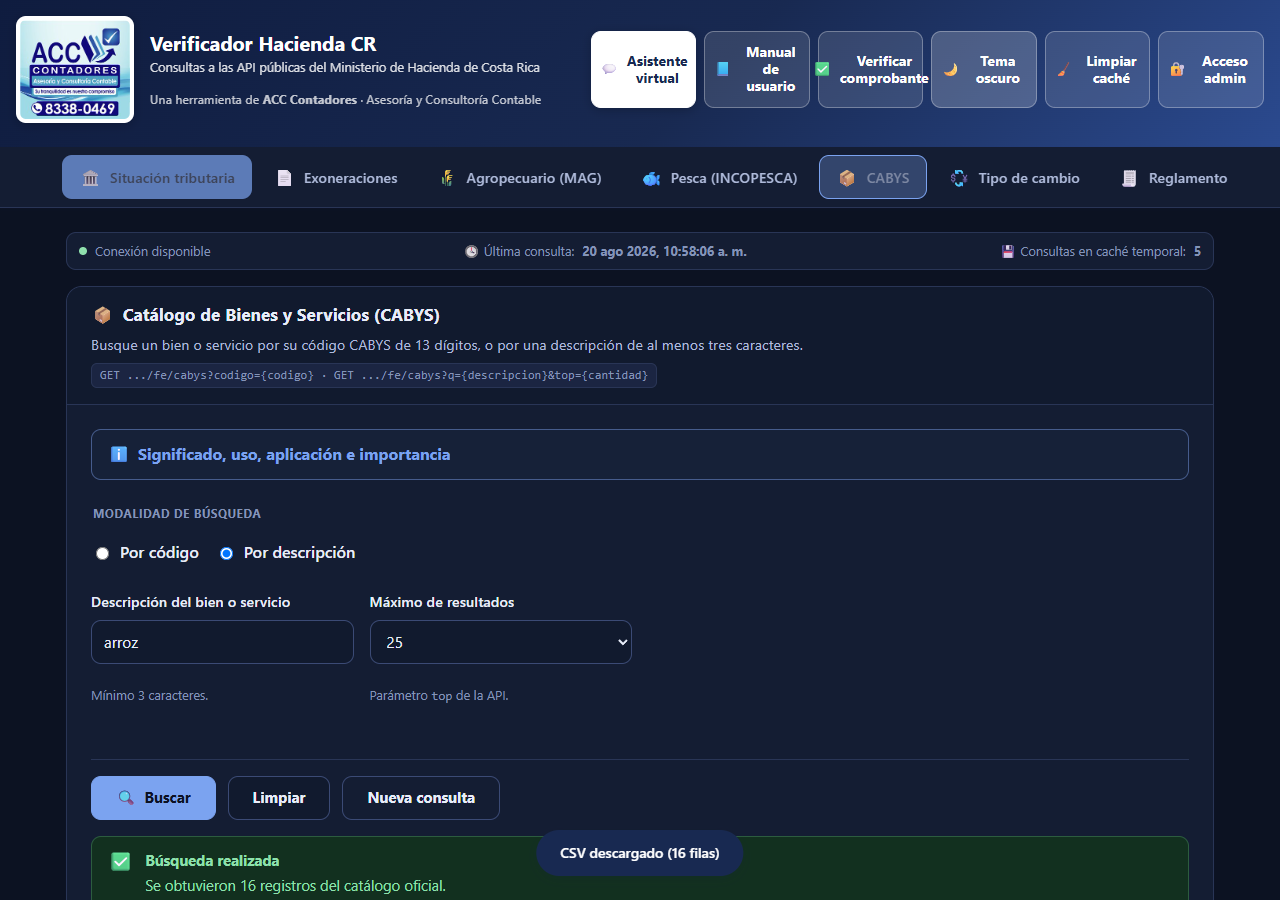
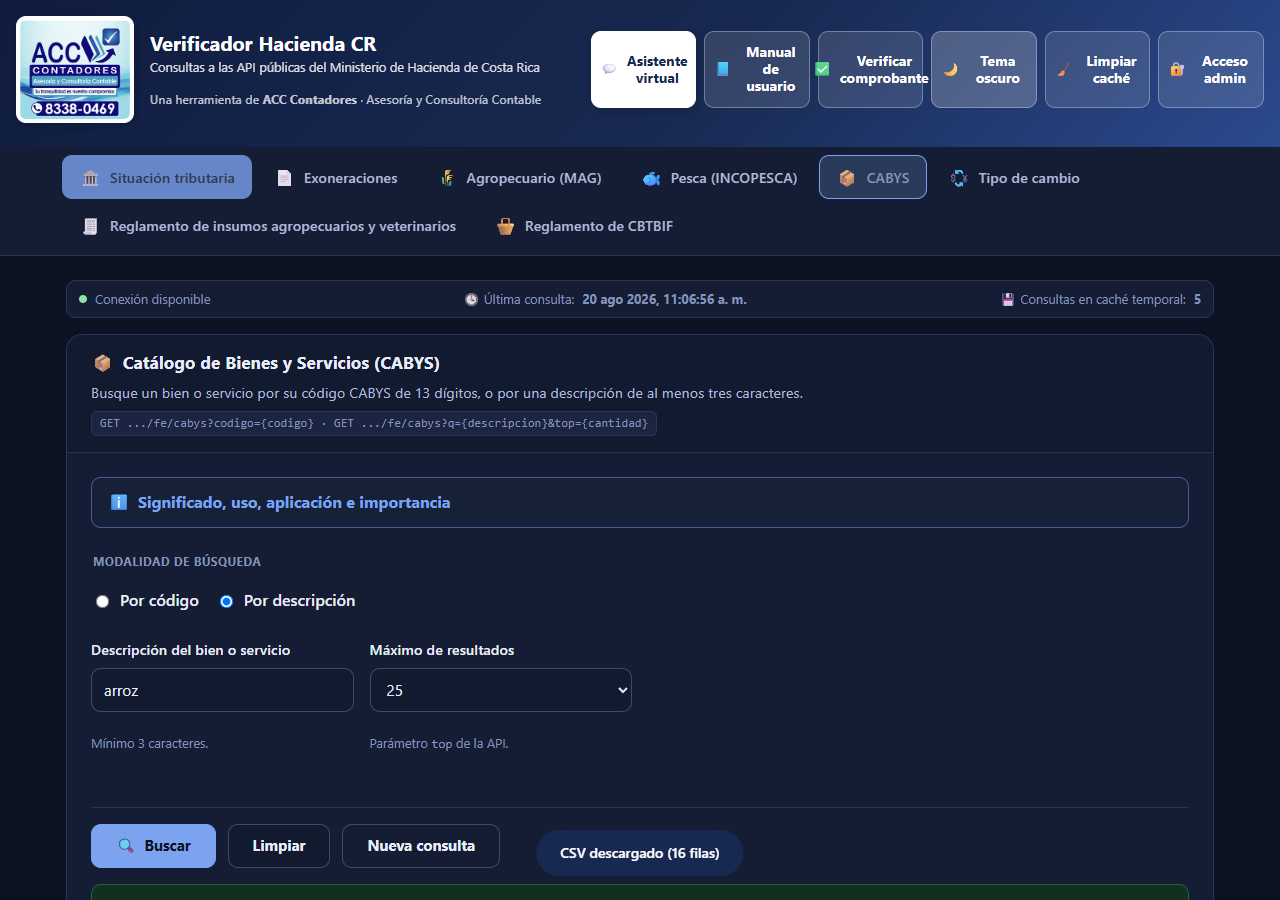
Hace que la barra de pestañas salte de línea en vez de desplazarse horizontalmente
Con 8 módulos, la barra dejaba pestañas fuera de la vista y requería
desplazar horizontalmente para verlas todas. Ahora las pestañas se
envuelven a una segunda fila y cada una ajusta su propio texto al
ancho disponible, sin desbordar en pantallas angostas.

diff --git a/index.html b/index.html
@@ -378,20 +378,18 @@ body:has(.manual-dialog[open],.admin-dialog[open]){ overflow:hidden; }
 }
 .tablist{
   max-width:var(--maxw); margin:0 auto;
-  display:flex; gap:var(--space-1);
-  overflow-x:auto; scrollbar-width:thin;
+  display:flex; flex-wrap:wrap; gap:var(--space-1);
   padding:var(--space-2) var(--space-3);
-  -webkit-overflow-scrolling:touch;
 }
 .tab{
-  flex:0 0 auto;
+  flex:0 1 auto; max-width:100%;
   min-height:var(--tap);
   display:inline-flex; align-items:center; gap:var(--space-2);
   padding:var(--space-2) var(--space-4);
   font:inherit; font-size:.9rem; font-weight:600;
   color:var(--text-soft); background:transparent;
   border:1px solid transparent; border-radius:var(--radius);
-  cursor:pointer; white-space:nowrap;
+  cursor:pointer; white-space:normal; text-align:left;
   transition:background .15s ease,color .15s ease;
 }
 .tab:hover{ background:var(--bg-inset); color:var(--text); }
